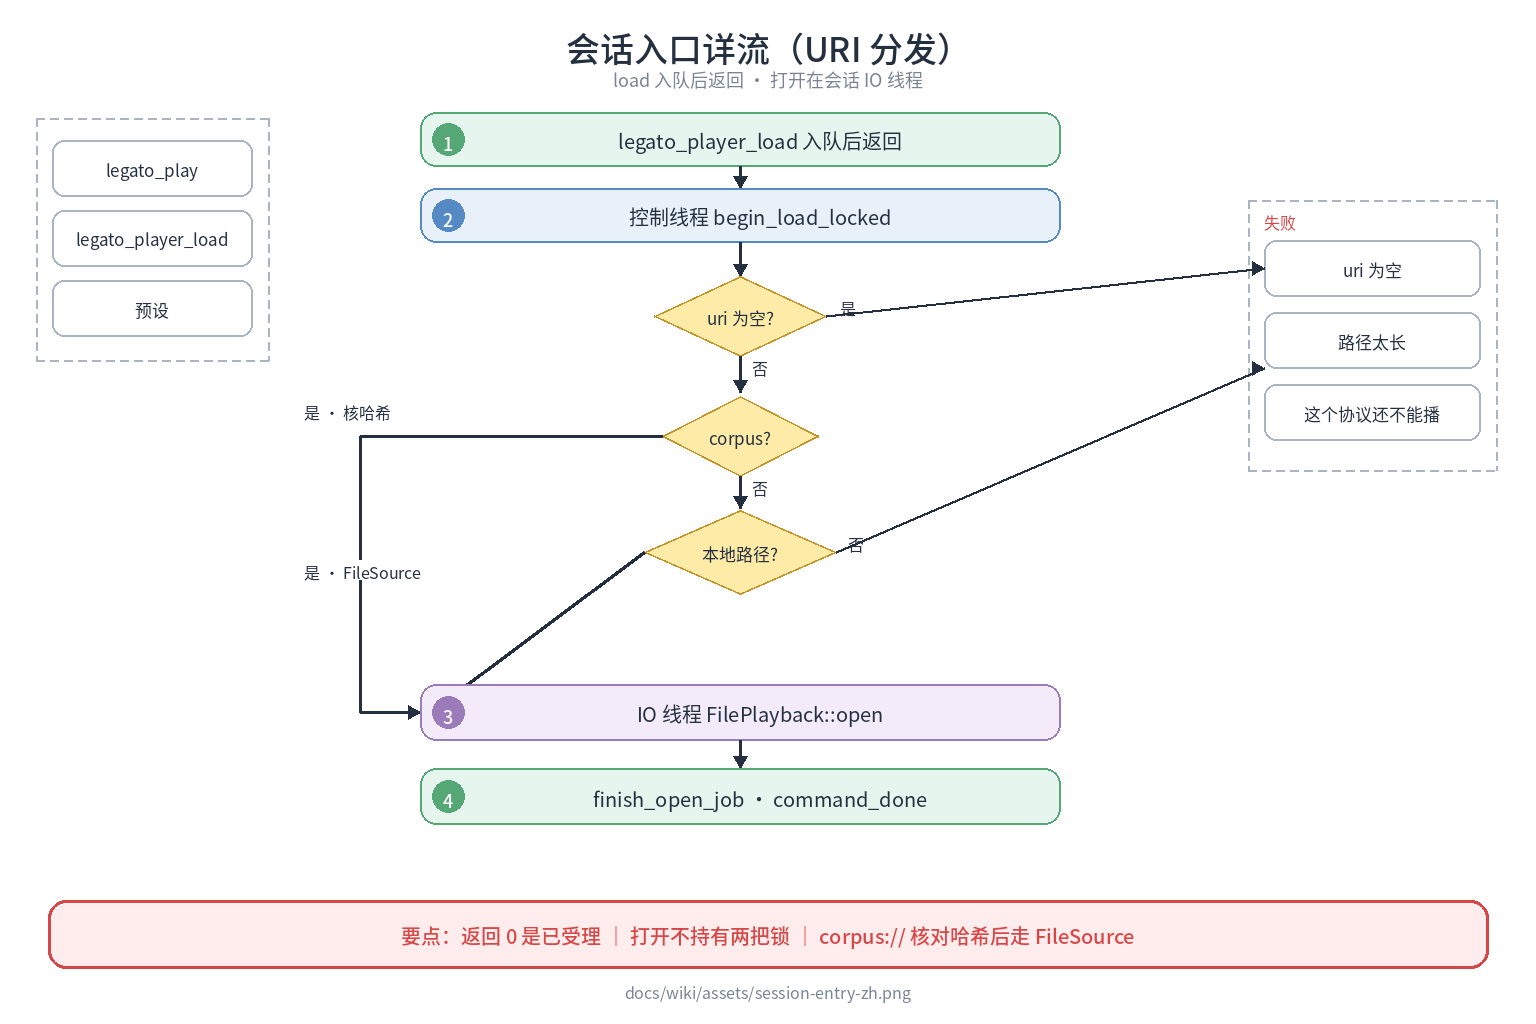
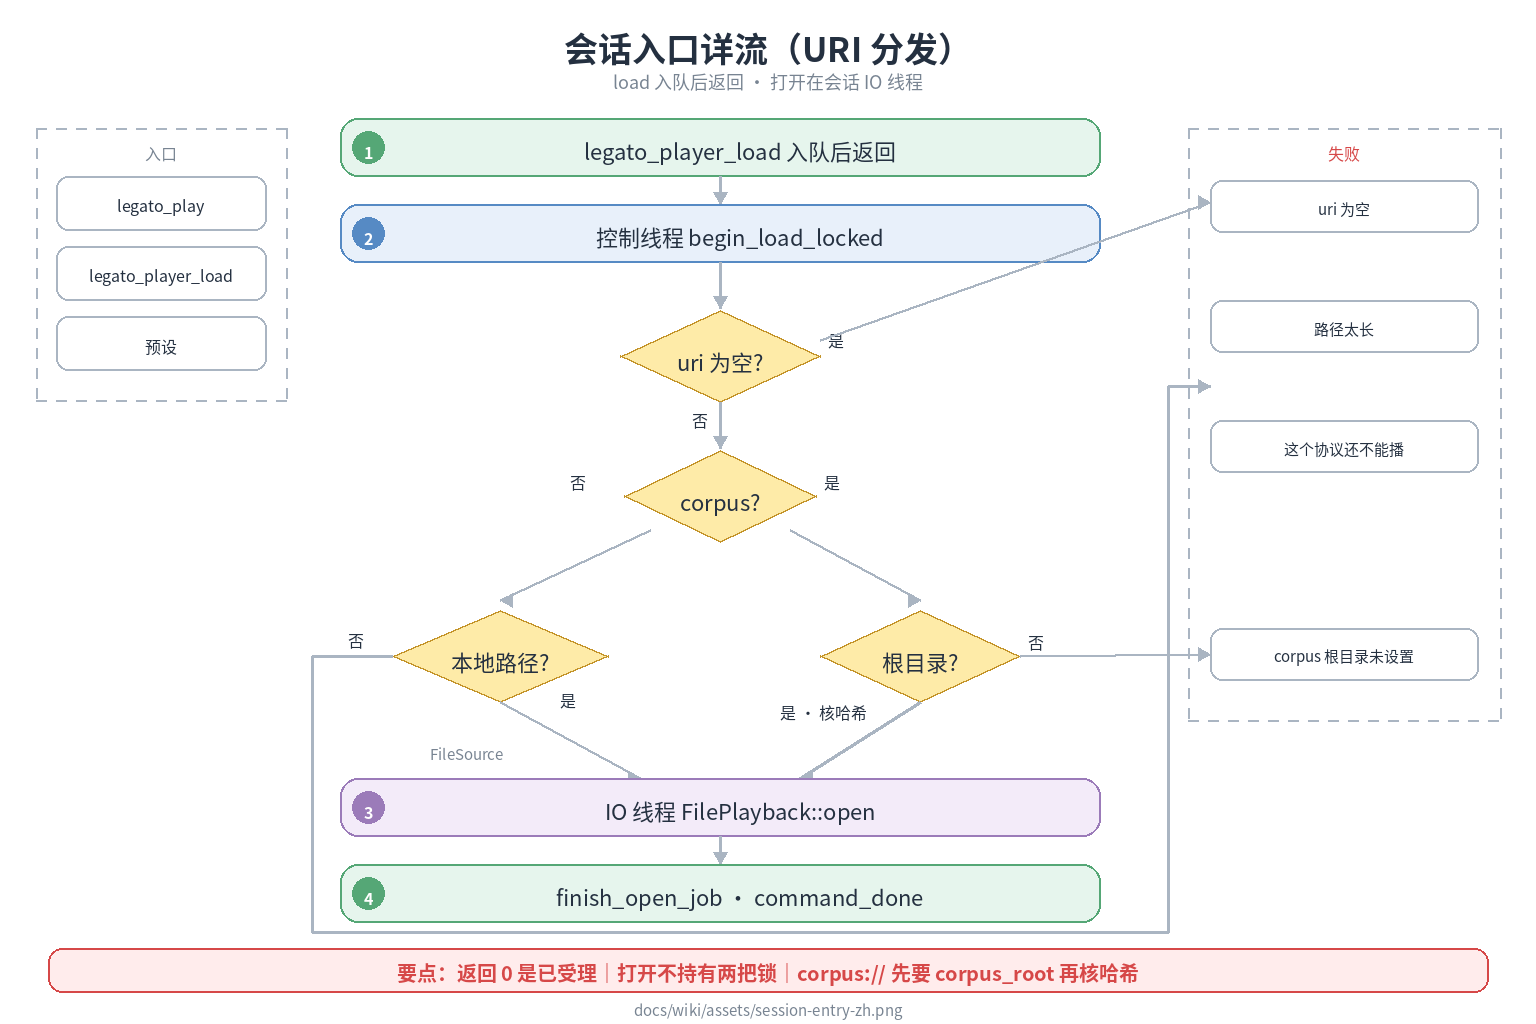
按语料根目录和预设 video 为假改写 README 与导览。

diff --git a/docs/wiki/pages/session-entry.html b/docs/wiki/pages/session-entry.html
@@ -3,7 +3,7 @@
     <h2>会话入口</h2>
     <p class="lede"><code>legato_player_load</code> 经 <code>Engine::post</code> 入队后返回。返回值 0 表示命令已受理，不表示媒体已经打开。打开在会话 IO 线程上执行，不持有 <code>Engine::mu_</code> 或 <code>Player::mu_</code>。</p>
     <h3>1. 分发</h3>
-    <p>控制线程上的 <code>Player::begin_load_locked</code> 读取 <code>legato_media_item.uri</code>。<code>corpus:</code> 先由 <code>resolve_corpus</code> 核对内容哈希，再排队打开，时钟为虚拟媒体时钟。<code>file://</code> 与无 scheme 的路径经 <code>local_file_path</code> 排队打开。<code>Player::io_main</code> 注入 <code>AudioMasterClock</code>；打开后没有音频流则改为 <code>MonotonicClock</code>。其它带 <code>://</code> 的 scheme 将 <code>state</code> 置为 <code>error</code>，错误名 <code>unsupported_scheme</code>，<code>message</code> 为「这个协议还不能播」。</p>
+    <p>控制线程上的 <code>Player::begin_load_locked</code> 读取 <code>legato_media_item.uri</code>。<code>corpus:</code> 使用创建引擎时传入的 <code>corpus_root</code>，由 <code>resolve_corpus</code> 核对内容哈希，再排队打开，时钟为虚拟媒体时钟。未设置根目录则 <code>message</code> 为「corpus 根目录未设置」。<code>file://</code> 与无 scheme 的路径经 <code>local_file_path</code> 排队打开。<code>Player::io_main</code> 注入 <code>AudioMasterClock</code>；打开后没有音频流则改为 <code>MonotonicClock</code>。其它带 <code>://</code> 的 scheme 将 <code>state</code> 置为 <code>error</code>，错误名 <code>unsupported_scheme</code>，<code>message</code> 为「这个协议还不能播」。</p>
     <h3>2. 打开结果</h3>
     <p>排队时 <code>state=loading</code>，并发出 <code>state_changed</code>。IO 线程调用 <code>FilePlayback::open</code>。完成后控制线程执行 <code>finish_open_job</code>：成功则在 <code>playing_intent_</code> 已置位时 <code>start</code>，并发送 <code>command_done</code>；失败则 <code>state=error</code>。空 URI、超长路径分别对应「uri 为空」和「路径太长」。<code>legato_player_release</code> 只标记并投递回收，join 在回收线程上，调用线程立即返回。事件环不覆盖 <code>error</code>、<code>ended</code>、<code>first_frame</code>、<code>state_changed</code>。Seek 与同一属性的 <code>property_changed</code> 各自合并。<code>observe</code> 由控制线程按间隔轮询。</p>
     <p class="src"><code>Player::begin_load_locked</code> · <code>local_file_path</code> · <code>resolve_corpus</code> · <code>engine/src/player.cpp</code></p>

diff --git a/docs/wiki/pages/file-playback.html b/docs/wiki/pages/file-playback.html
@@ -3,7 +3,7 @@
     <h2>本地文件播放</h2>
     <p class="lede">管线为 <code>FileSource</code> → <code>FFmpegDemuxer</code> → 每路包队列 → <code>FFmpegSwDecoder</code> → PCM 环或帧队列 → 音频输出线程。打开在会话 IO 线程上。<code>Player::io_main</code> 注入 <code>AudioMasterClock</code> 和 <code>AlsaSink</code>；没有音频流时改为 <code>MonotonicClock</code>。控制线程只写 <code>serial</code> 和目标位置。</p>
     <h3>1. 打开与队列</h3>
-    <p><code>FFmpegDemuxer</code> 使用 <code>AVFMT_FLAG_CUSTOM_IO</code>，字节来自 <code>DataSource</code>。解复用线程按流把包放进队列。时长上限是预设的 <code>buffer_max_s</code>，字节上限是这个秒数乘以 1 MiB/s。视频帧队列容量 8。包和帧带 <code>serial</code>。存在音频流时必须打开 ALSA PCM 设备，输出为交错 S16。视频帧交给 <code>CountingVideoSink</code>，只计数，不画。</p>
+    <p><code>FFmpegDemuxer</code> 使用 <code>AVFMT_FLAG_CUSTOM_IO</code>，字节来自 <code>DataSource</code>。解复用线程按流把包放进队列。时长上限是预设的 <code>buffer_max_s</code>，字节上限是这个秒数乘以 1 MiB/s。视频帧队列容量 8。包和帧带 <code>serial</code>。存在音频流时必须打开 ALSA PCM 设备，输出为交错 S16。视频帧交给 <code>CountingVideoSink</code>，只计数，不画。预设 <code>video</code> 为假时，<code>FFmpegDemuxer::discard_video</code> 使解复用不交出视频包，也不打开视频解码器。</p>
     <h3>2. 主时钟与流结束</h3>
     <p>音频输出线程从 PCM 环取出样本再写入设备。主时钟只在 <code>AudioMasterClock::observe_delay</code> 计算，公式是 <code>origin_us + (written_frames - delay_frames) * 1000000 / rate</code>。首次写入成功后，输出线程把首帧写入通知环，控制线程调用 <code>media_first_frame</code>。EOF 之后取出重采样残余样本，再 <code>snd_pcm_drain</code>。drain 期间若暂停或 Seek 已经置位，不发送 EOS。输出线程看到新 <code>serial</code> 后清零写入帧数和首帧标记。</p>
     <h3>3. 传输控制</h3>

diff --git a/docs/wiki/pages/deterministic.html b/docs/wiki/pages/deterministic.html
@@ -1,7 +1,7 @@
 <section class="page" data-id="deterministic" data-group="流程" data-title="确定性回归">
   <div class="card">
     <h2>确定性回归</h2>
-    <p class="lede"><code>corpus://</code> 先核对 <code>testdata/corpus.yaml</code> 的内容哈希，再经 <code>FileSource</code> 进入 <code>FilePlayback</code>。解复用线程把包放进每路队列。该路径不打开 ALSA PCM 设备。<code>Player::io_main</code> 注入 <code>VirtualClock</code>、<code>NullAudioSink</code> 和 <code>RecordingVideoSink</code>。挑帧在 <code>VideoPresenter::present_until</code>。</p>
+    <p class="lede"><code>corpus://</code> 的根目录来自 <code>legato_engine_create</code> 的 <code>corpus_root</code>。先核对 <code>testdata/corpus.yaml</code> 的内容哈希，再经 <code>FileSource</code> 进入 <code>FilePlayback</code>。解复用线程把包放进每路队列。该路径不打开 ALSA PCM 设备。<code>Player::io_main</code> 注入 <code>VirtualClock</code>、<code>NullAudioSink</code> 和 <code>RecordingVideoSink</code>。挑帧在 <code>VideoPresenter::present_until</code>。</p>
     <h3>1. 虚拟媒体时钟</h3>
     <p><code>begin_load_locked</code> 将 <code>state</code> 置为 <code>loading</code>，并把打开交给会话 IO 线程。时钟只在 <code>legato_engine_advance_us</code> 被调用时前进，内部按 16667 微秒的垂直同步量化。<code>NullAudioSink::write_frames</code> 消费 PCM，样本位置经 <code>AudioMasterClock::observe_delay</code> 计算。第一帧在第一次同步呈现，<code>first_frame.us</code> 为 16667，与解码耗时无关。</p>
     <h3>2. 基线</h3>
